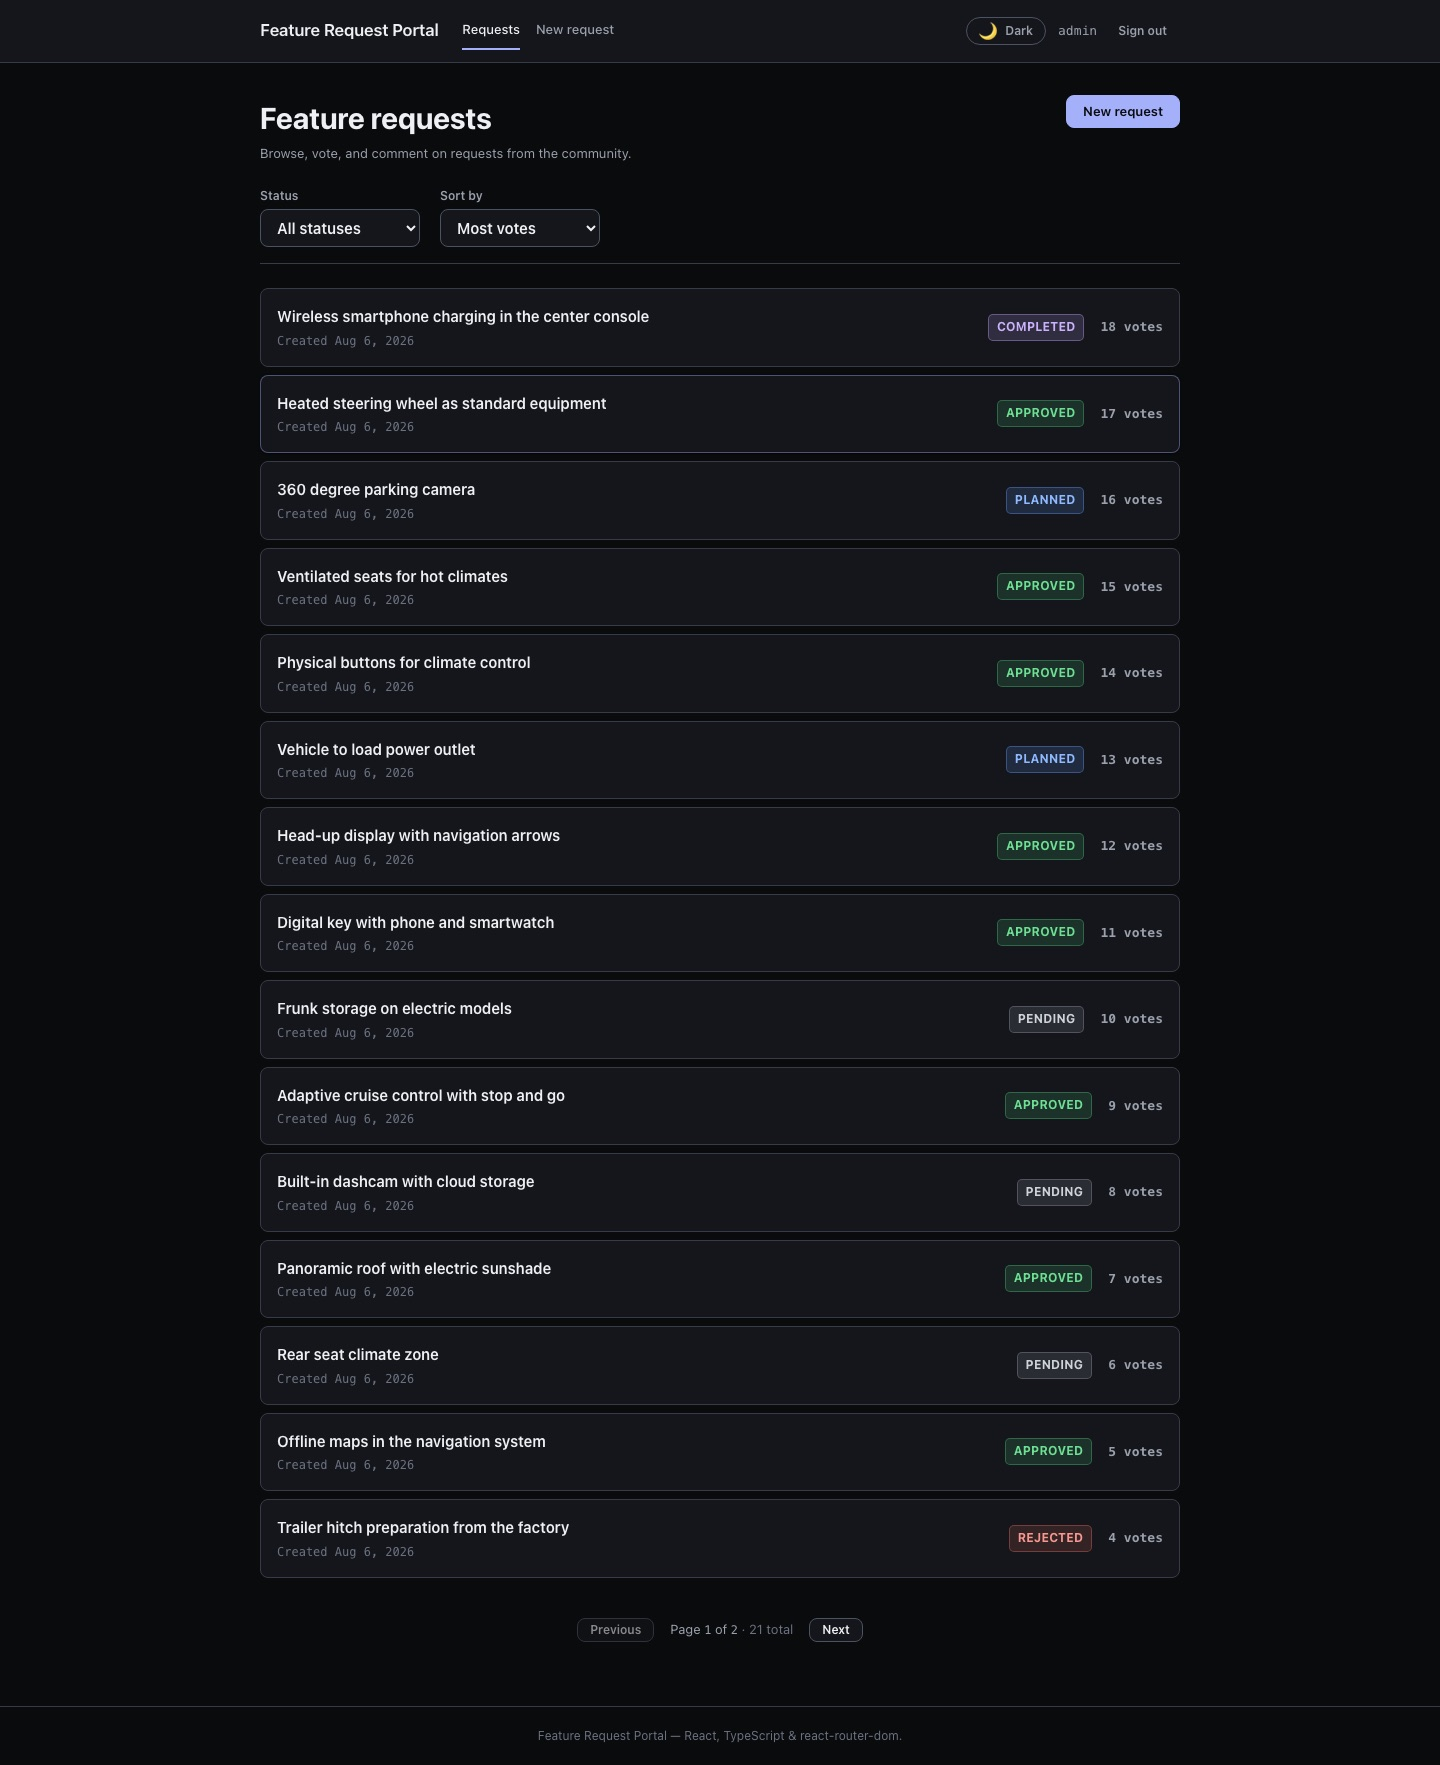
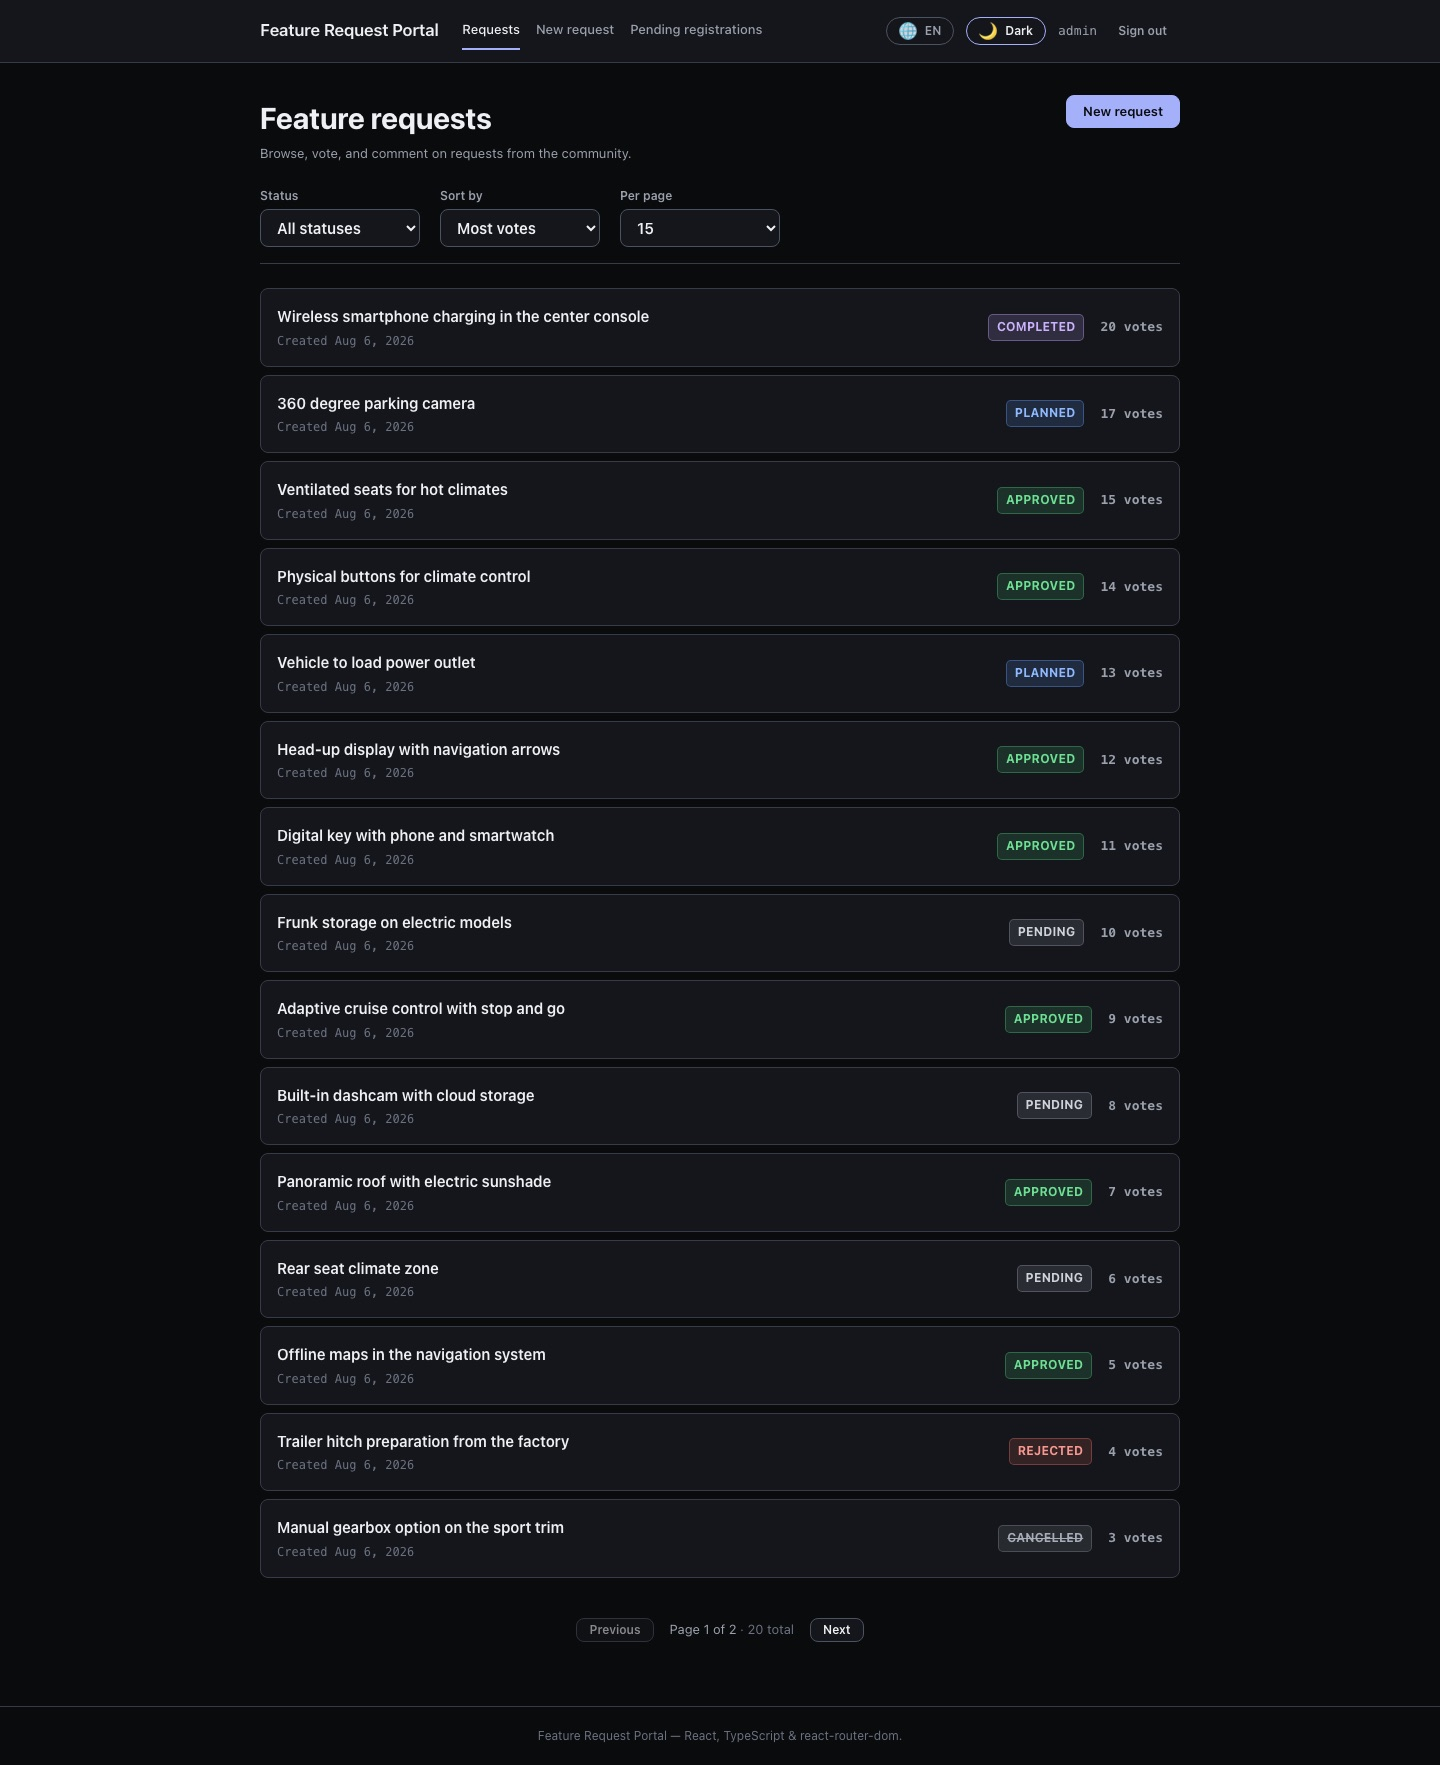
docs: refresh the screenshots so they match the current build
The Razor shots predated three UI changes and one of them actively
contradicted its own caption: the visitor list still showed the status
filter that was removed for visitors, and none of them had the sign-up and
login buttons or the page-size selector. Retook all six against the running
app.

The SPA set was missing the language toggle and the page-size control that
arrived after it was captured, and the login screen predated the in-app
sign-up link. Retook those too, so both galleries show the same build the
repository ships.

Also corrected the Node requirement - Vite 8 wants 20.19+ or 22.12+, not
any 20 - and reworded the visitor caption, which described the status
filter as a feature of the page one line before saying visitors never see
it.

diff --git a/README.md b/README.md
@@ -29,7 +29,7 @@ Ek olarak: aynı HTTP API'yi tüketen bir **React 19 + TypeScript** arayüzü.
 
 - [.NET 10 SDK](https://dotnet.microsoft.com/download)
 - Docker (ya da lokal bir PostgreSQL sunucusu)
-- Node.js 20+ (yalnızca opsiyonel React arayüzü için)
+- Node.js **20.19+** veya **22.12+** (yalnızca opsiyonel React arayüzü için — Vite 8'in gereksinimi)
 
 ### 1. Veritabanını başlat
 
@@ -129,8 +129,9 @@ cd src/FeatureRequestPortal.SPA && npx tsc -b  # SPA tip kontrolü
 
 ### Ana sayfa — ziyaretçi
 
-Sayfalama (15 satır), oy sayısı kolonuna tıklanarak sıralama, durum filtresi.
-Ziyaretçi yalnızca `Approved` kayıtları görür; statü filtresi ona hiç gösterilmez.
+Ziyaretçi yalnızca `Approved` kayıtları görür. Statü filtresi ona hiç gösterilmiyor — göstersek
+her seçim boş tablo döndürürdü; yerine tek cümlelik bir açıklama var. Sayfalama 15 satır,
+oy sayısı kolonu başlığına tıklanarak sıralanabiliyor.
 
 ![Liste — ziyaretçi](docs/screenshots/01-list-anonymous.jpg)
 
@@ -142,7 +143,7 @@ Oy verme ve yorum yazma alanları giriş bağlantısına dönüşür.
 
 ### Ana sayfa — giriş yapmış kullanıcı
 
-Giriş yapan kullanıcı tüm statüleri görür ve filtreleyebilir.
+Giriş yapan kullanıcı tüm statüleri görür, filtreleyebilir ve sayfa boyutunu seçebilir.
 
 ![Liste — giriş yapmış](docs/screenshots/03-list-authenticated.jpg)
 
